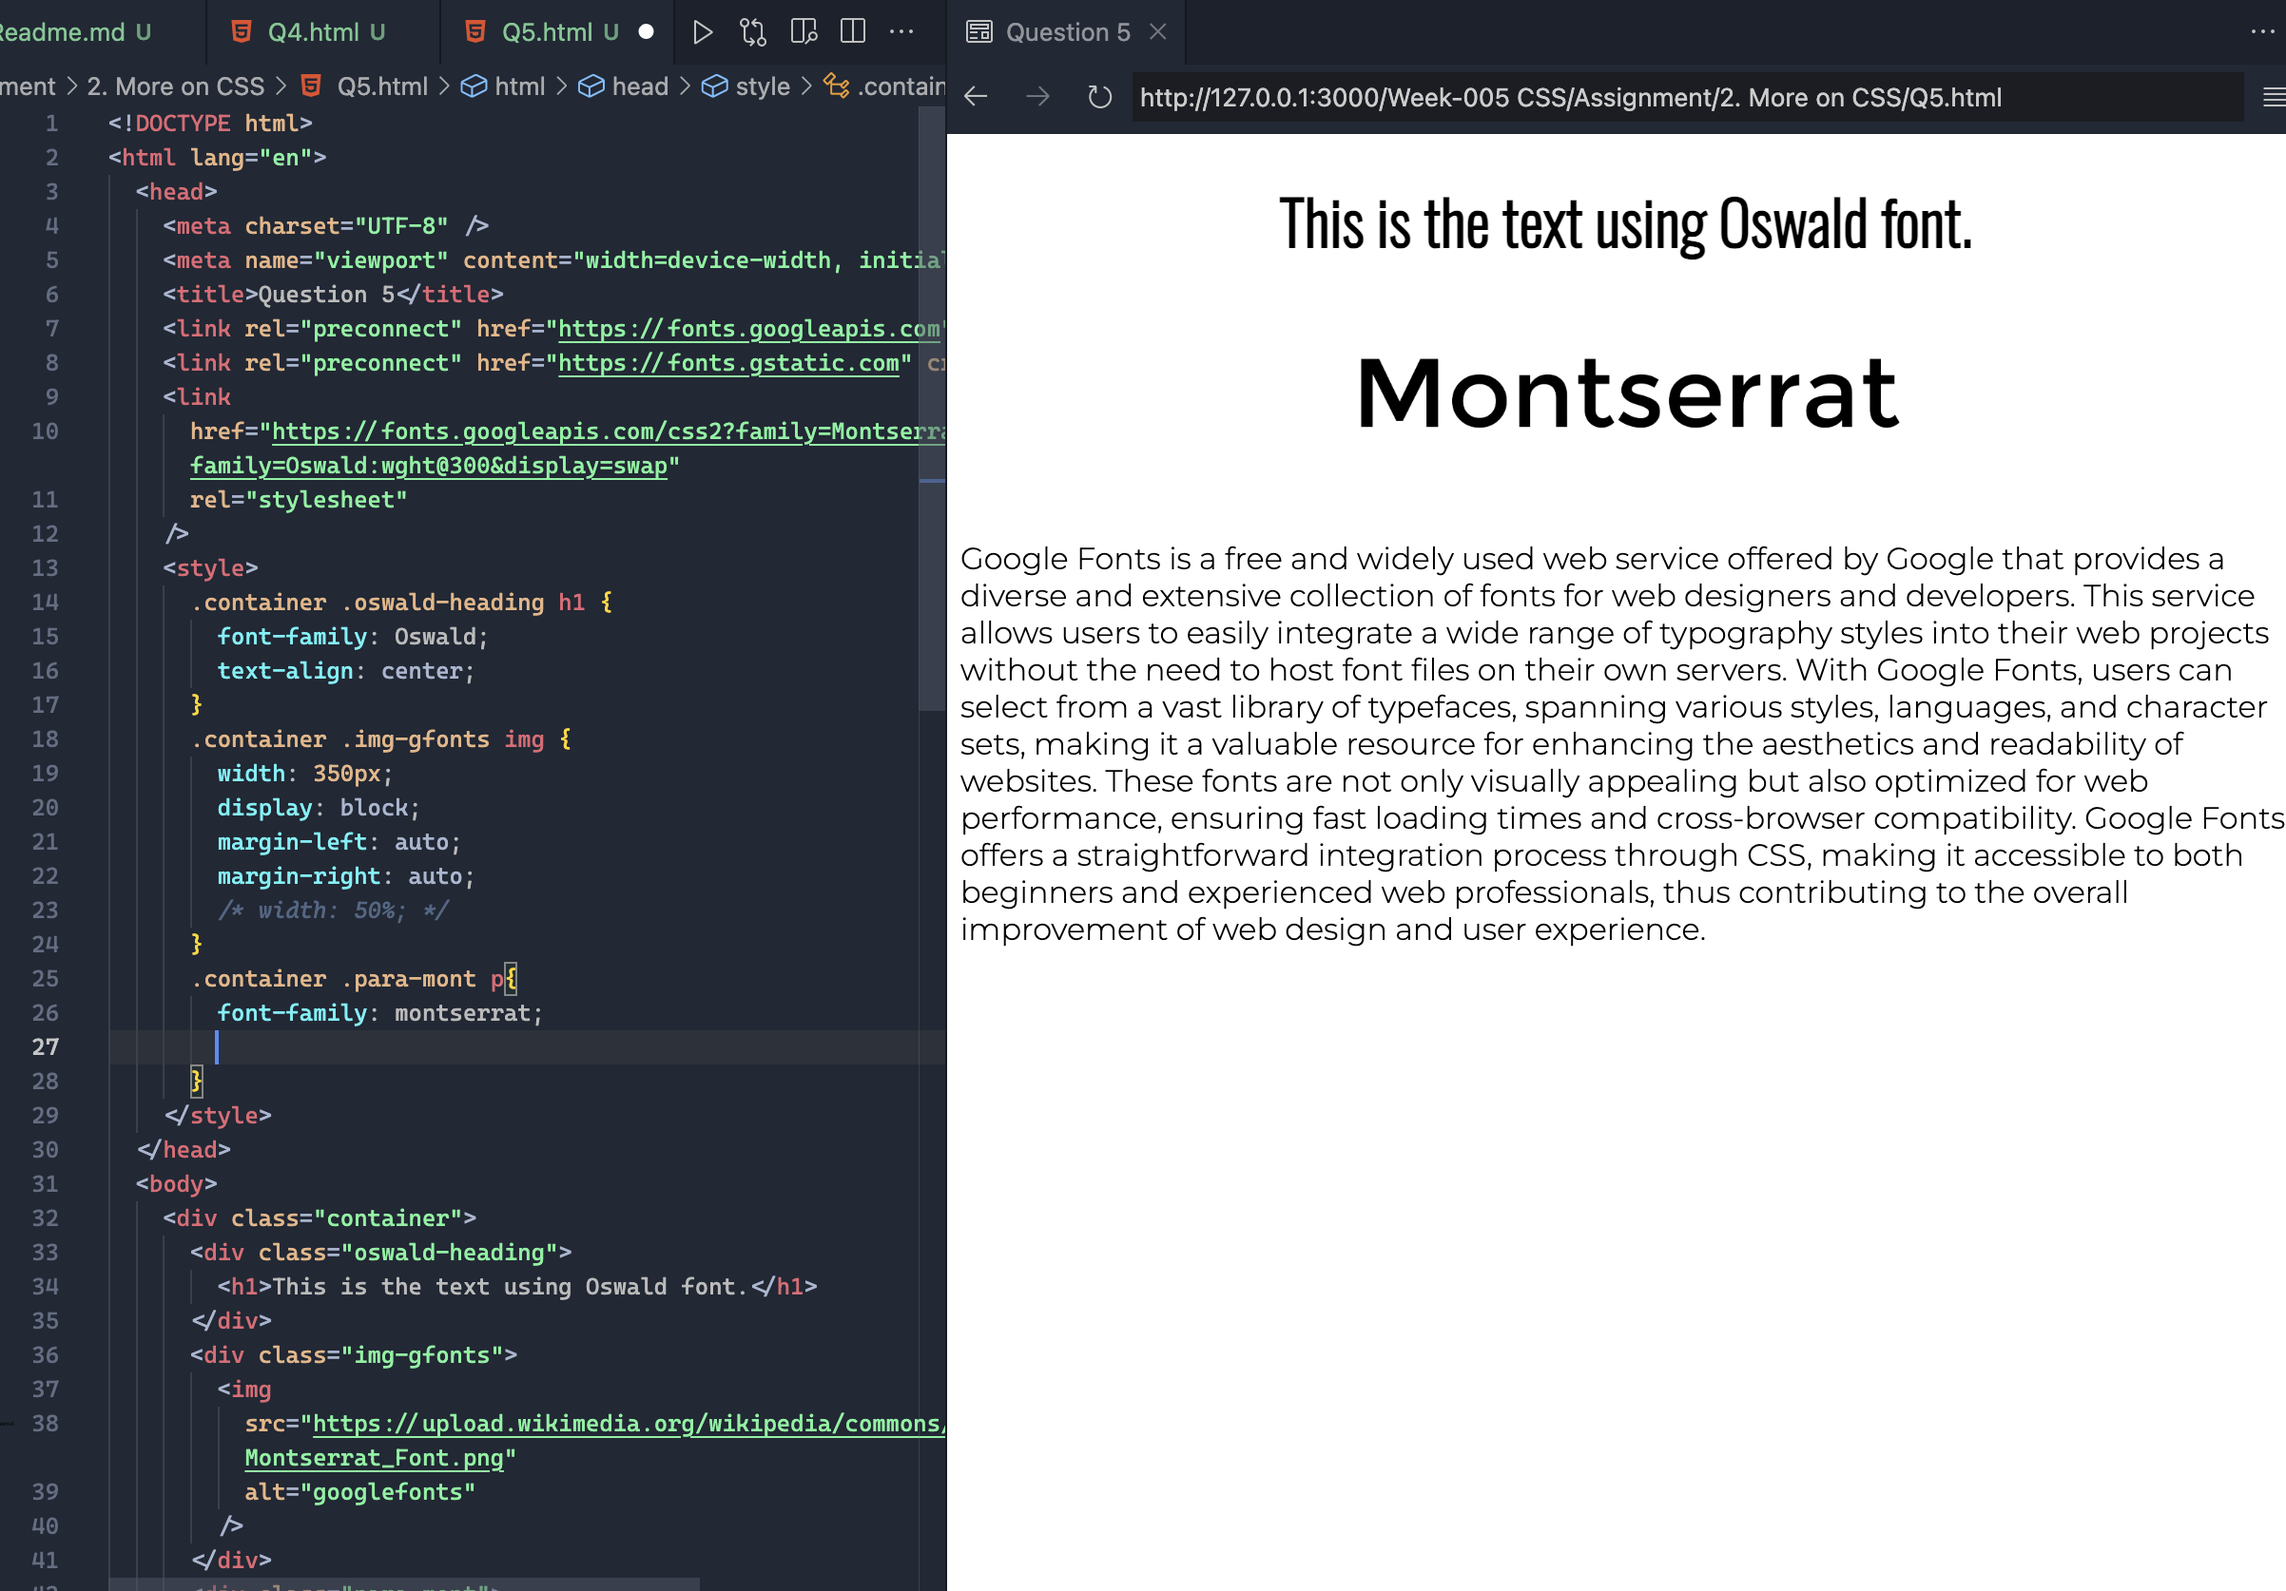
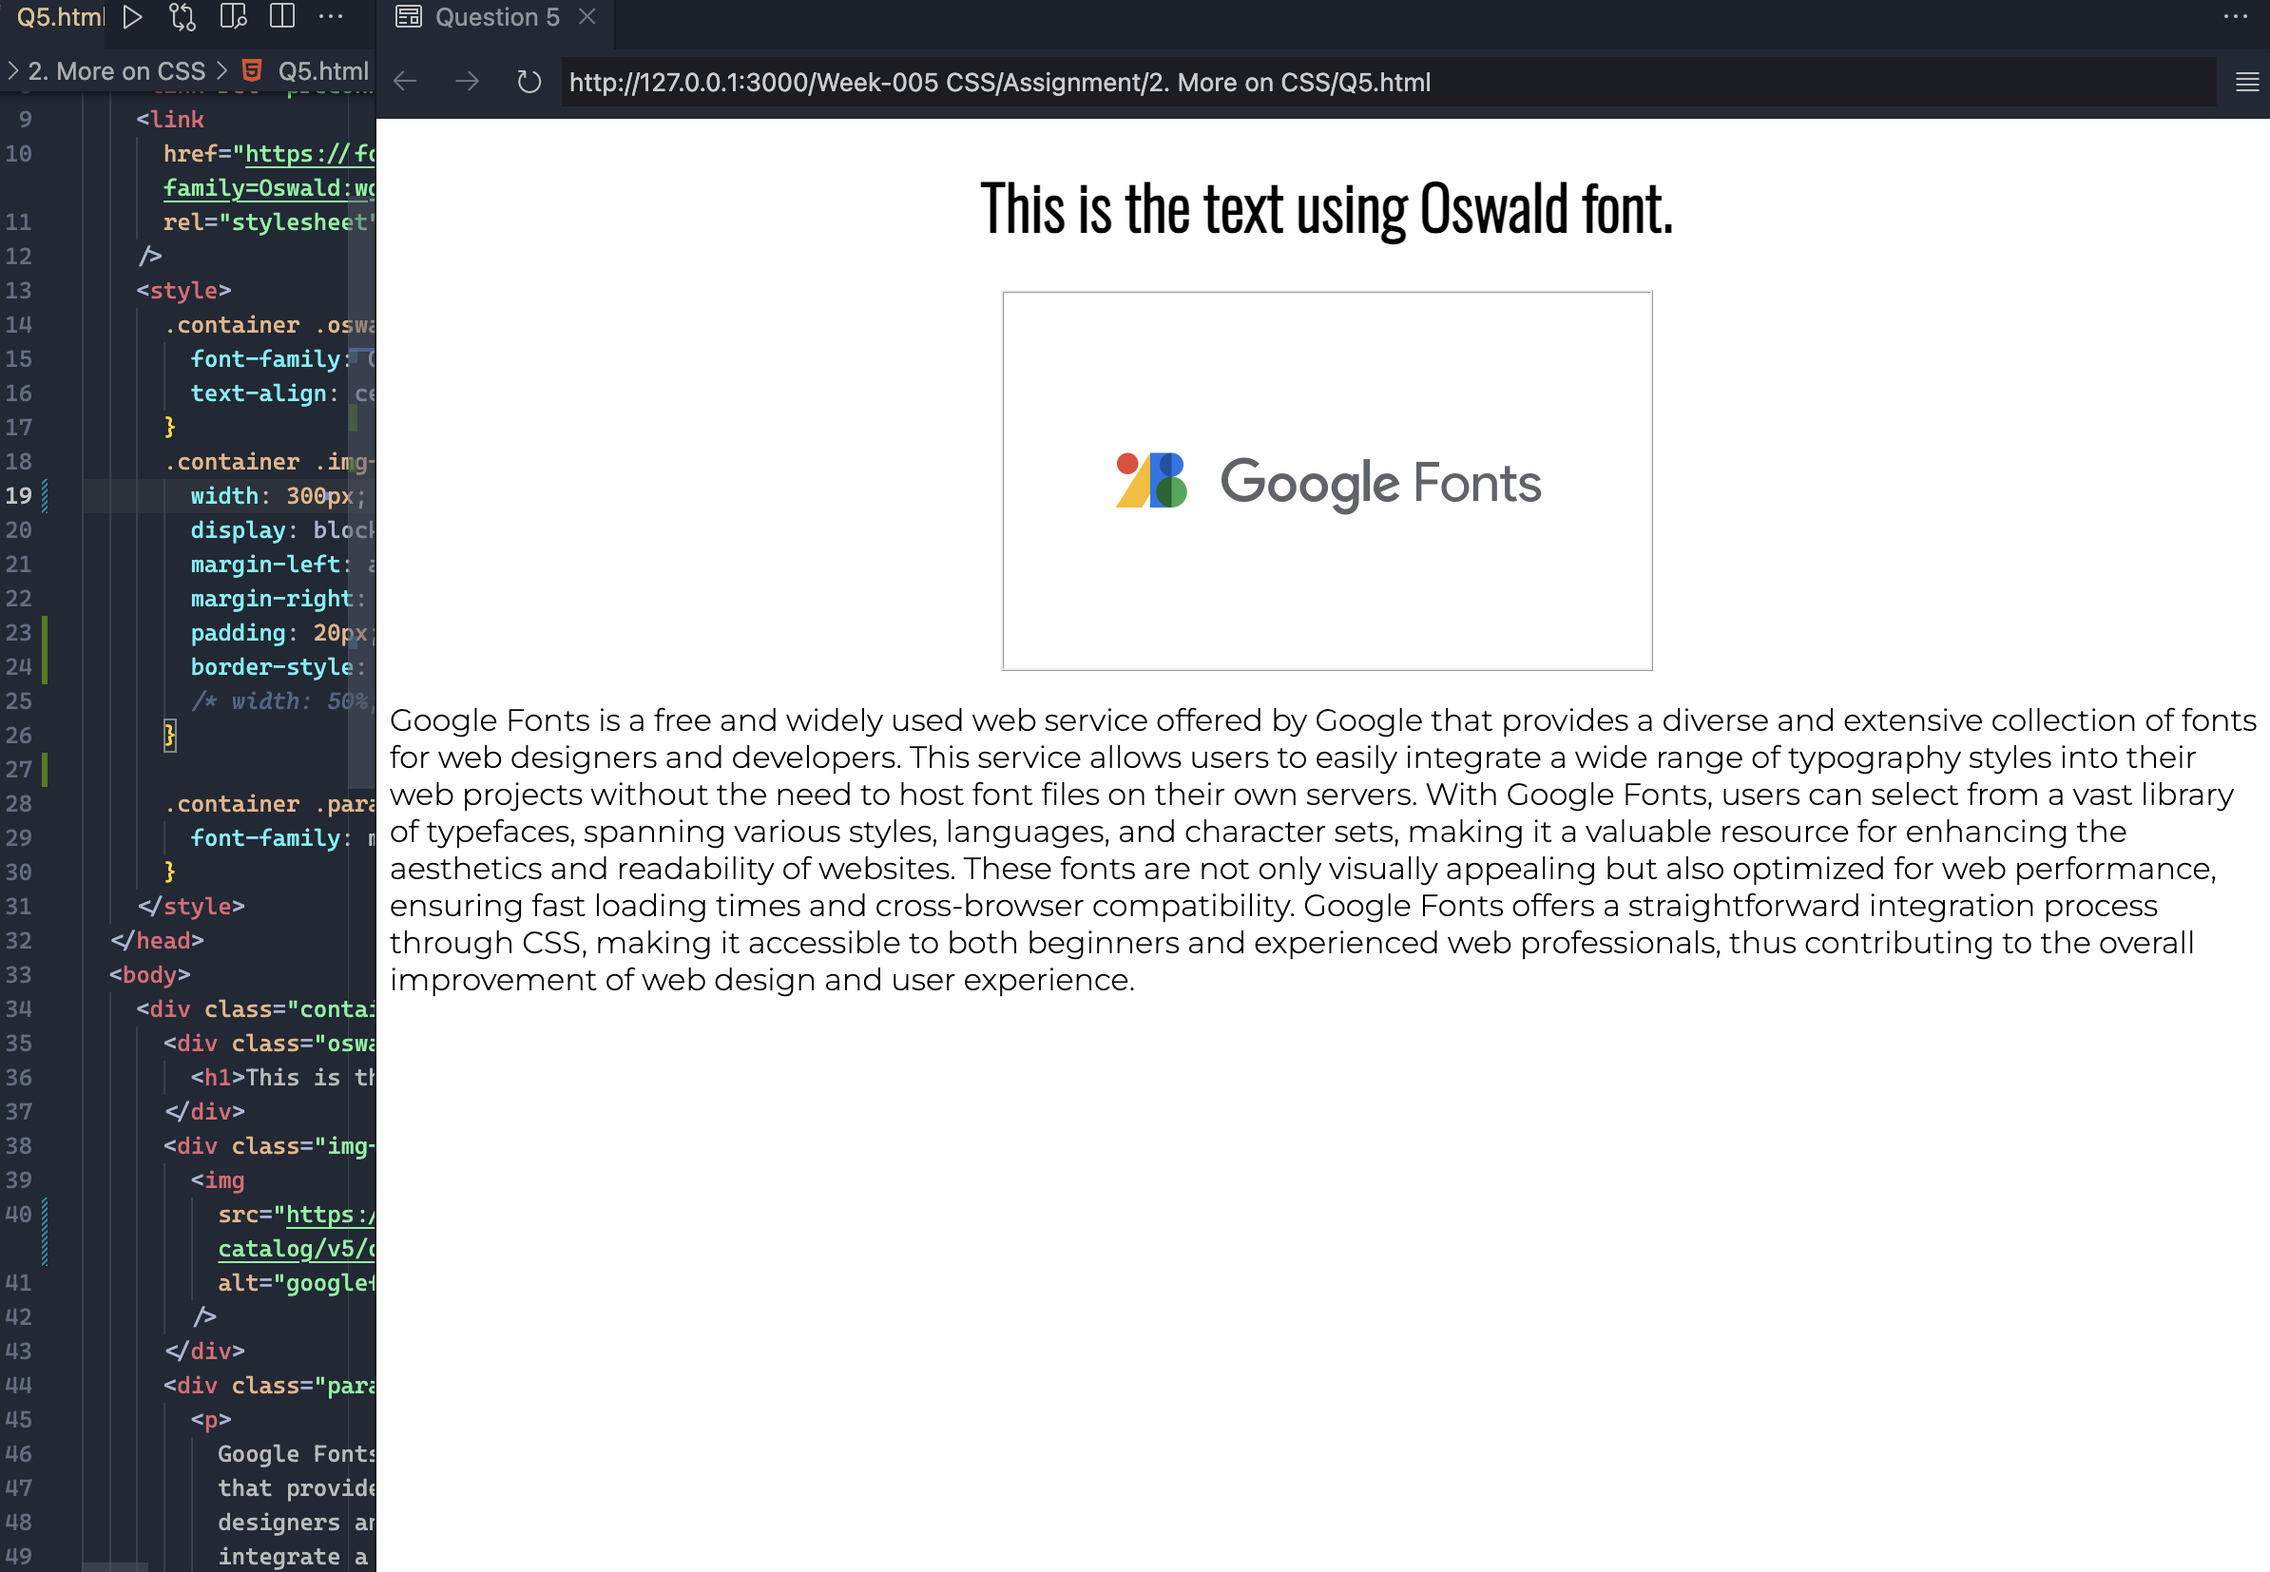
Initial commit

diff --git a/Week-005 CSS/Assignment/2. More on CSS/Q7.html b/Week-005 CSS/Assignment/2. More on CSS/Q7.html
@@ -7,7 +7,7 @@
     <style>
       .container {
         border: 2px solid black;
-        width: 310px;
+        width: 320px;
         height: 235px;
         margin: 10px auto;
         display: flex;
@@ -24,20 +24,17 @@
       }
       .container .img img {
         display: block;
-
         /* width: 250px; */
         margin: 10px;
         max-width: calc(100% - 20px);
         max-height: auto;
       }
       .container:hover {
-        /* display: block; */
-
-        /* width: 250px; */
-        /* margin: 10px;
-        max-width: calc(100% - 20px);
-        max-height: auto; */
         opacity: 0.5;
+      }
+      .container .para span {
+        margin: 5px;
+        font-weight: bolder;
       }
     </style>
   </head>

diff --git a/Week-005 CSS/Assignment/2. More on CSS/Q5.html b/Week-005 CSS/Assignment/2. More on CSS/Q5.html
@@ -16,12 +16,15 @@
         text-align: center;
       }
       .container .img-gfonts img {
-        width: 350px;
+        width: 300px;
         display: block;
         margin-left: auto;
         margin-right: auto;
+        padding: 20px;
+        border-style: ridge;
         /* width: 50%; */
       }
+
       .container .para-mont p {
         font-family: montserrat;
       }
@@ -34,7 +37,7 @@
       </div>
       <div class="img-gfonts">
         <img
-          src="https://upload.wikimedia.org/wikipedia/commons/2/2d/Montserrat_Font.png"
+          src="https://www.gstatic.com/images/icons/material/apps/fonts/1x/catalog/v5/opengraph_color.png"
           alt="googlefonts"
         />
       </div>
